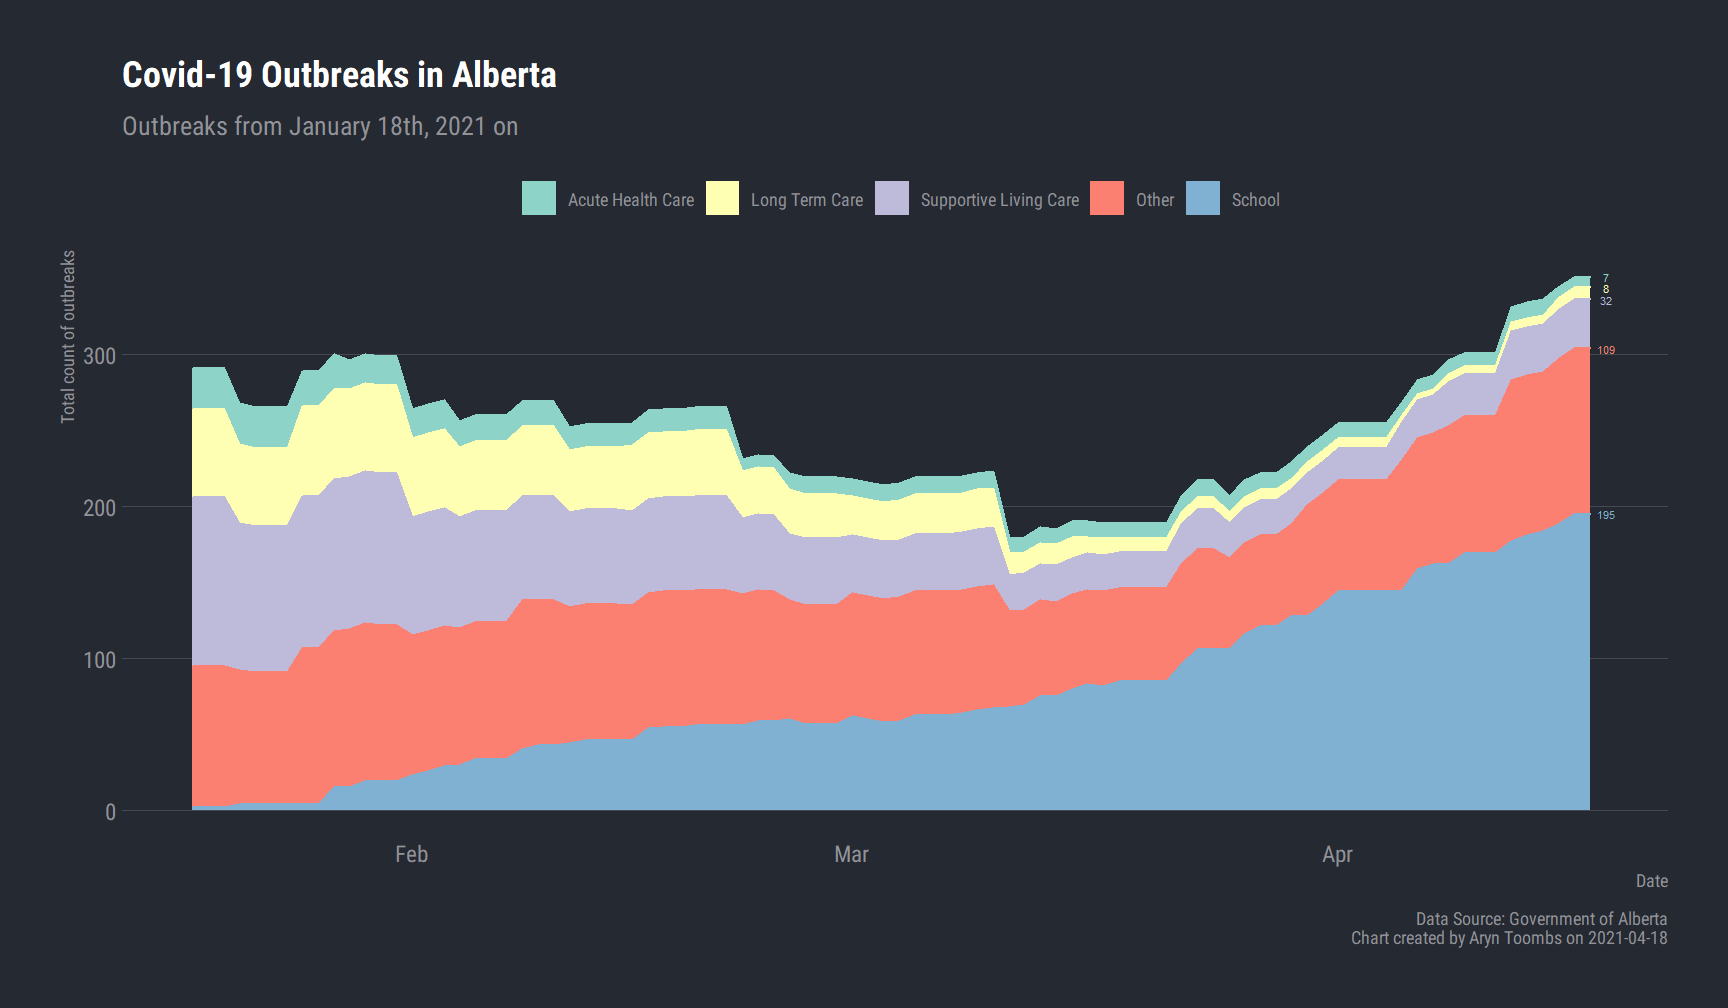
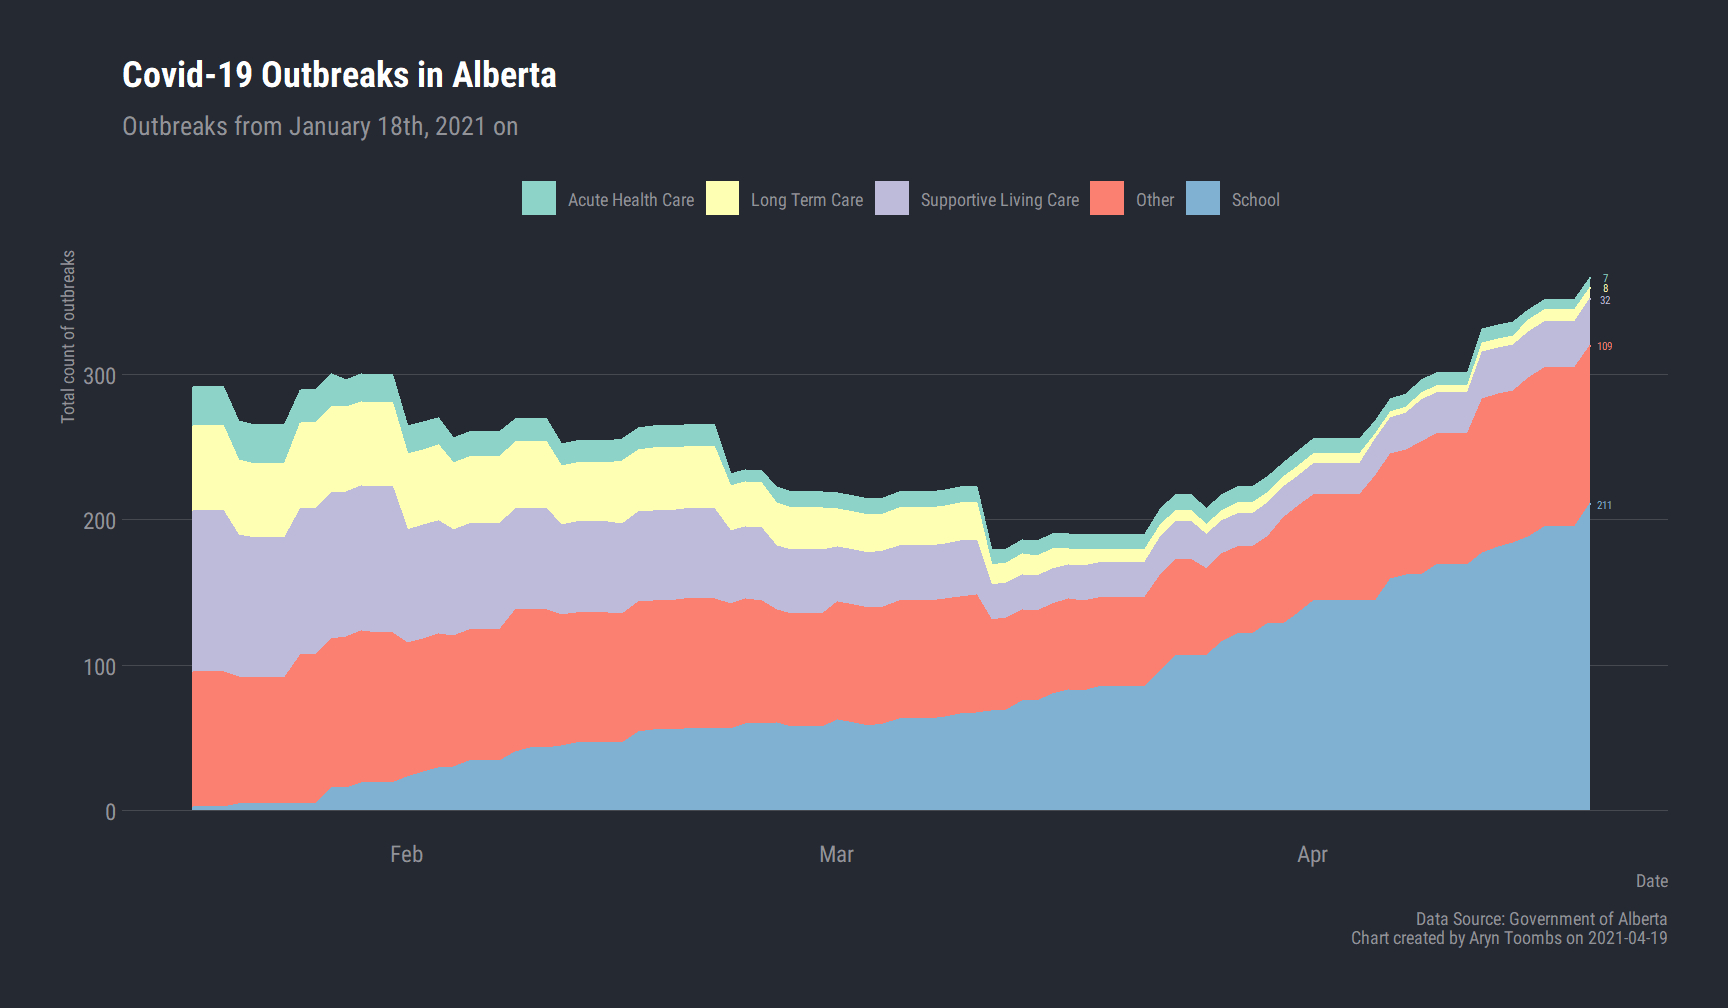
update

diff --git a/outbreaks/index.html b/outbreaks/index.html
@@ -22,7 +22,7 @@
         "datePublished": "2021-04-02T22:46:30Z",
         "dateModified" : "2021-04-02T22:46:30Z",
         "url" : "\/outbreaks\/",
-        "wordCount" : "65",
+        "wordCount" : "67",
         "keywords" : [ "Blog" ]
     }
 </script>
@@ -37,7 +37,7 @@
 <meta itemprop="name" content="Outbreaks">
 <meta itemprop="description" content="Covid-19 Outbreaks in Alberta"><meta itemprop="datePublished" content="2021-04-02T00:00:00&#43;00:00" />
 <meta itemprop="dateModified" content="2021-04-02T00:00:00&#43;00:00" />
-<meta itemprop="wordCount" content="65">
+<meta itemprop="wordCount" content="67">
 <meta itemprop="keywords" content="" />
 <meta property="og:title" content="Outbreaks" />
 <meta property="og:description" content="Covid-19 Outbreaks in Alberta" />
@@ -179,15 +179,18 @@
   </div>
 </div>
 <div class="row mb-3 pr-1 pt-1 justify-content-end">
-  <p class="m-1"><i class="bi bi-info-circle-fill"></i> Covid-19 outbreaks (not including schools, see below) current as of Fri, Apr 16, 2021. AHS data updated on Tuesdays and Fridays.</p>
+  <p class="m-1"><i class="bi bi-info-circle-fill"></i> Covid-19 outbreaks (not including schools, see below) current as of Fri, Apr 16, 2021. AHS non-school outbreak data updated on Tuesdays and Fridays.</p>
 </div>
   <div class="row pl-3">
     <h4 class="body-display">Outbreak Charts</h4>
   </div>
   <div class="row justify-content-center">
-    <div class="col-8 pl-0 pr-0">
+    <div class="col-md-8 pl-0 pr-0">
       <img class="img-fluid" src="../ZONES_Outbreaks.png">
       <p><i class="bi bi-info-circle-fill"></i> Alberta Schools are not included on this map after January 18th, 2021 as the criteria for outbreaks in schools changed.</p>
+    </div>
+    <div class="col-12 pl-0 pr-0">
+      <img class="img-fluid" src="../All_Outbreaks.png">
     </div>
   </div>
 </div>
